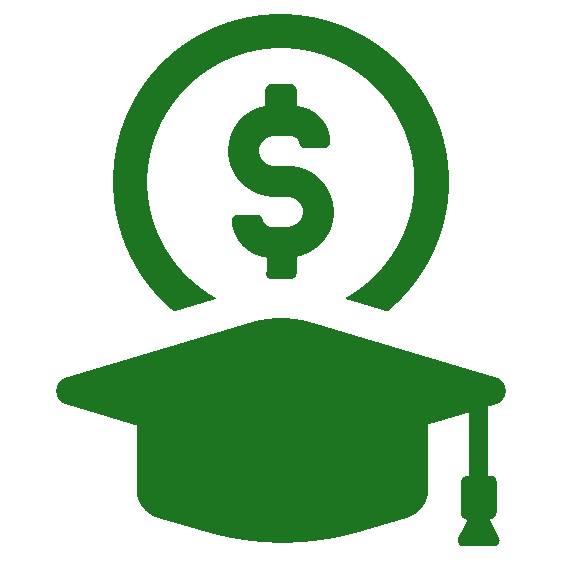
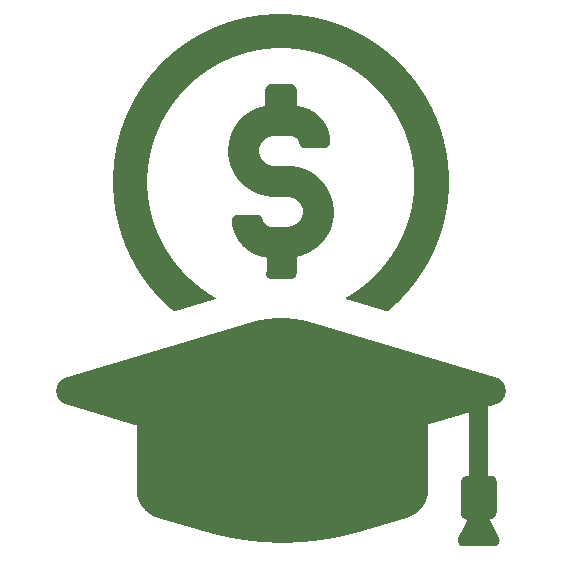
welcome page complete

diff --git a/src/App.css b/src/App.css
@@ -7,11 +7,13 @@
   --purple: #3424ac;
 
   --dark-green: #014e33;
-  --forest-green: #3a8107;
+  --forest-green: #18643c;
   --mint-green: #33b885;
   --brown: #2e1c0b;
   --navy: #01132b;
   --pale-blue: #6eaeeb;
+  --light-navy: #2c344b;
+  --teal: #18373c;
 
   /***** Other colors that go well with this theme ******/
   /* pale green, cyan, lavender, pale blue, orange ******/
@@ -27,7 +29,9 @@
   --h2-h3-bold: 300;
 
 
-  background: var(--navy);
+  /* background: var(--navy); */
+  background-image: url("./img/welcome-page-wide.jpg");
+  background-size: cover;
   font-family: 'Poppins',Helvetica,Arial,Lucida,sans-serif;
   font-style: normal;
   letter-spacing: 0.015rem;
@@ -47,14 +51,14 @@ main {
 }
 
 h1 {
-  color: var(--peach);
+  color: forest-green;
   font-weight: var(--h1-bold);
   text-align: center;
   margin-bottom: var(--small-spacing);
 }
 
 h2, h3 {
-  color: var(--mint-green);
+  color: forest-green;
   font-weight: var(--h2-h3-bold);
   text-align: center;
   margin-bottom: var(--small-spacing);
@@ -66,7 +70,7 @@ h3 {
 }
 
 section, figure {
-  color: var(--rose-pink);
+  color: forest-green;
   text-align: center;
   font-size: 1.5rem;
   margin-bottom: var(--med-spacing);
@@ -80,7 +84,7 @@ ul {
 }
 
 #description {
-  color: white;
+  color: forest-green;
   margin-top: var(--med-spacing);
   margin-bottom: var(--med-spacing);
   text-align: center;
@@ -177,7 +181,7 @@ label {
 
 /*********** Navigation Bar ***********/
 .navigationBar {
-  background-color: white;
+  background-color: var(--light-navy);
   overflow: hidden;
   height: 50px;
 }

diff --git a/src/components/NavigationBar.js b/src/components/NavigationBar.js
@@ -12,7 +12,7 @@ function NavigationBar() {
                 alt="graduation cap with dollar sign in background">
             </img>
         </Link>
-        <h1>Interest</h1>
+        <h1 style={{color: 'var(--mint-green)'}}>Interest</h1>
     </div>
   )
 }

diff --git a/src/Pages/Home.js b/src/Pages/Home.js
@@ -3,6 +3,7 @@ import { Link } from 'react-router-dom';
 import graduationCapImage from "../img/interesticon_mintgreen_cropped.png";
 import NavigationBar from '../components/NavigationBar';
 
+
 function Home() {
   return (
     <>
